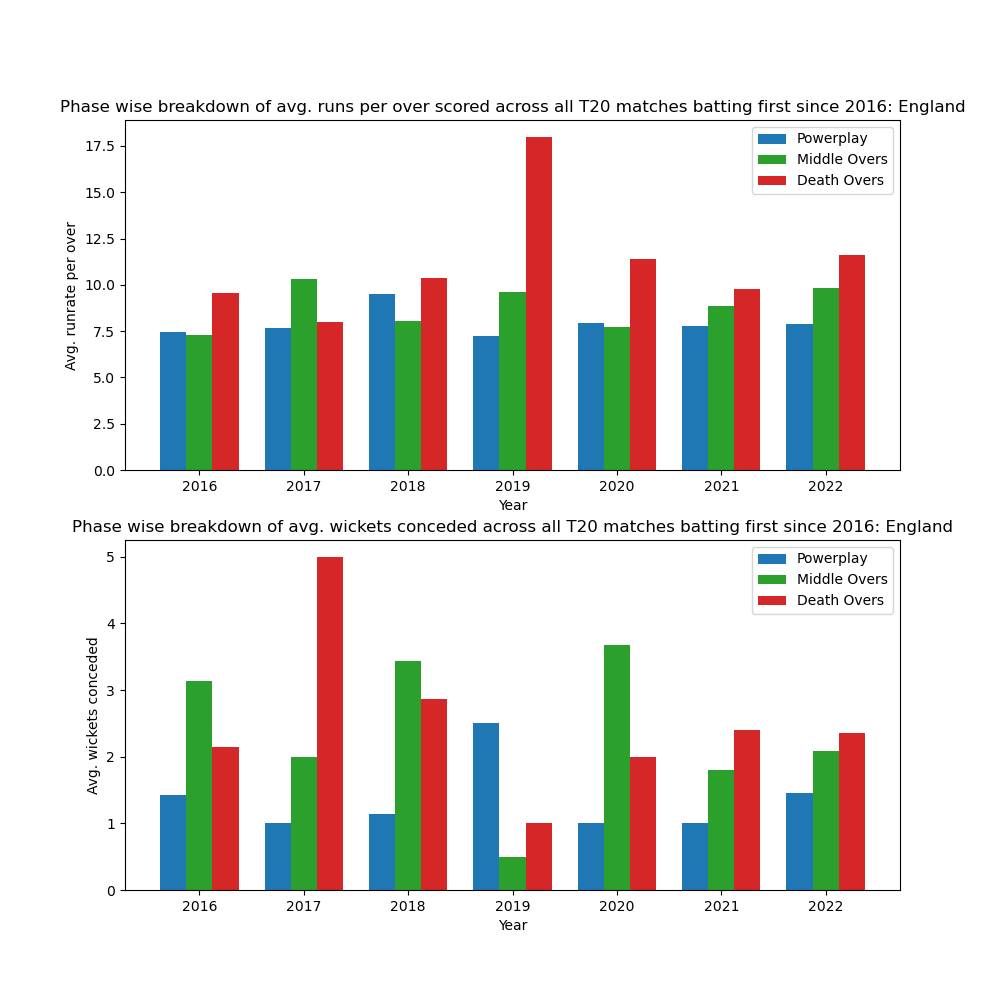
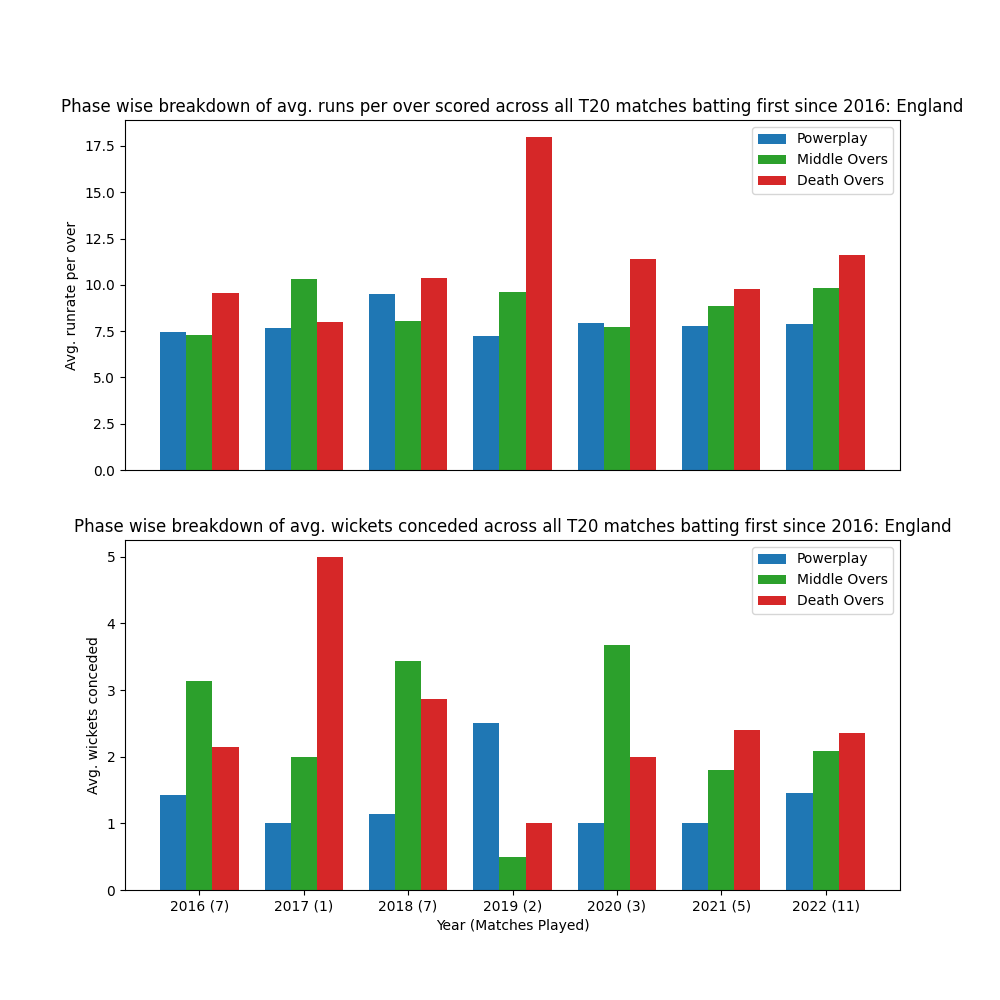
plots updated

diff --git a/DataVisualization/plots_1_2_3.py b/DataVisualization/plots_1_2_3.py
@@ -345,6 +345,9 @@ def make_plots_3(db, team_1, team_2 = "All"):
         country_data = country_data.loc[(country_data['team_B'] == team_2)]
 
     years = np.sort(list(country_data.year.unique()))
+    num_matches = []
+    num_matches_bat = []
+    num_matches_ball = []
 
     for year_ref in years:
 
@@ -511,6 +514,9 @@ def make_plots_3(db, team_1, team_2 = "All"):
             avg_wickets_D_ball = 0
 
         phase_score_record.append((year_ref, avg_runs_P_overall, avg_wickets_P_overall, avg_runs_M_overall, avg_wickets_M_overall, avg_runs_D_overall, avg_wickets_D_overall, avg_runs_P_bat, avg_wickets_P_bat, avg_runs_M_bat, avg_wickets_M_bat, avg_runs_D_bat, avg_wickets_D_bat, avg_runs_P_ball, avg_wickets_P_ball, avg_runs_M_ball, avg_wickets_M_ball, avg_runs_D_ball, avg_wickets_D_ball))
+        num_matches.append(f"{year_ref} ({total_matches_overall})")
+        num_matches_bat.append(f"{year_ref} ({total_matches_bat})")
+        num_matches_ball.append(f"{year_ref} ({total_matches_ball})")
     phase_score_df = pd.DataFrame.from_records(phase_score_record, columns=["year", "avg_score_P_overall", "avg_wickets_P_overall", "avg_score_M_overall", "avg_wickets_M_overall", "avg_score_D_overall", "avg_wickets_D_overall", "avg_score_P_bat", "avg_wickets_P_bat", "avg_score_M_bat", "avg_wickets_M_bat", "avg_score_D_bat", "avg_wickets_D_bat", "avg_score_P_ball", "avg_wickets_P_ball", "avg_score_M_ball", "avg_wickets_M_ball", "avg_score_D_ball", "avg_wickets_D_ball"])
     phase_score_df = phase_score_df.set_index("year")
 
@@ -527,10 +533,9 @@ def make_plots_3(db, team_1, team_2 = "All"):
         ax[0].set_title('Phase wise breakdown of avg. runs per over scored across all T20 matches since 2016: '+str(team_1), loc='center')
     else:
         ax[0].set_title('Phase wise breakdown of avg. runs per over scored against '+str(team_2)+' in all T20I matches since 2016: '+str(team_1), loc='center')
-    ax[0].set_xlabel('Year')
     ax[0].set_ylabel('Avg. runrate per over')
-    ax[0].set_xticks(r+width) 
-    ax[0].set_xticklabels(years)
+    ax[0].set_xticks([]) 
+    ax[0].set_xticklabels([])
     ax[0].legend(loc = 'best')
 
     ax[1].bar(r, phase_score_df.iloc[:,1], width=width, label = 'Powerplay', color = 'tab:blue')
@@ -540,10 +545,10 @@ def make_plots_3(db, team_1, team_2 = "All"):
         ax[1].set_title('Phase wise breakdown of avg. wickets conceded across all T20 matches since 2016: '+str(team_1), loc='center')
     else:
         ax[1].set_title('Phase wise breakdown of avg. wickets conceded against '+str(team_2)+' in all T20I matches since 2016: '+str(team_1), loc='center')
-    ax[1].set_xlabel('Year')
+    ax[1].set_xlabel('Year (Matches Played)')
     ax[1].set_ylabel('Avg. wickets conceded')
     ax[1].set_xticks(r+width)
-    ax[1].set_xticklabels(years)
+    ax[1].set_xticklabels(num_matches)
     ax[1].legend(loc = 'best')
 
     plt.savefig("Phases_runs_wickets_overall_"+str(team_1)+"_"+str(team_2)+".png")
@@ -558,10 +563,9 @@ def make_plots_3(db, team_1, team_2 = "All"):
         ax[0].set_title('Phase wise breakdown of avg. runs per over scored across all T20 matches batting first since 2016: '+str(team_1), loc='center')
     else:
         ax[0].set_title('Phase wise breakdown of avg. runs per over scored against '+str(team_2)+' in all T20I matches batting first since 2016: '+str(team_1), loc='center')
-    ax[0].set_xlabel('Year')
     ax[0].set_ylabel('Avg. runrate per over')
-    ax[0].set_xticks(r+width) 
-    ax[0].set_xticklabels(years)
+    ax[0].set_xticks([]) 
+    ax[0].set_xticklabels([])
     ax[0].legend(loc = 'best')
 
     ax[1].bar(r, phase_score_df.iloc[:,7], width=width, label = 'Powerplay', color = 'tab:blue')
@@ -571,10 +575,10 @@ def make_plots_3(db, team_1, team_2 = "All"):
         ax[1].set_title('Phase wise breakdown of avg. wickets conceded across all T20 matches batting first since 2016: '+str(team_1), loc='center')
     else:
         ax[1].set_title('Phase wise breakdown of avg. wickets conceded against '+str(team_2)+' in all T20I matches batting first since 2016: '+str(team_1), loc='center')
-    ax[1].set_xlabel('Year')
+    ax[1].set_xlabel('Year (Matches Played)')
     ax[1].set_ylabel('Avg. wickets conceded')
     ax[1].set_xticks(r+width)
-    ax[1].set_xticklabels(years)
+    ax[1].set_xticklabels(num_matches_bat)
     ax[1].legend(loc = 'best')
 
     plt.savefig("Phases_runs_wickets_bat_first_"+str(team_1)+"_"+str(team_2)+".png")
@@ -589,10 +593,9 @@ def make_plots_3(db, team_1, team_2 = "All"):
         ax[0].set_title('Phase wise breakdown of avg. runs per over scored across all T20 matches batting second since 2016: '+str(team_1), loc='center')
     else:
         ax[0].set_title('Phase wise breakdown of avg. runs per over scored against '+str(team_2)+' in all T20I matches batting second since 2016: '+str(team_1), loc='center')
-    ax[0].set_xlabel('Year')
     ax[0].set_ylabel('Avg. runrate per over')
-    ax[0].set_xticks(r+width) 
-    ax[0].set_xticklabels(years)
+    ax[0].set_xticks([]) 
+    ax[0].set_xticklabels([])
     ax[0].legend(loc = 'best')
 
     ax[1].bar(r, phase_score_df.iloc[:,13], width=width, label = 'Powerplay', color = 'tab:blue')
@@ -602,10 +605,10 @@ def make_plots_3(db, team_1, team_2 = "All"):
         ax[1].set_title('Phase wise breakdown of avg. wickets conceded across all T20 matches batting second since 2016: '+str(team_1), loc='center')
     else:
         ax[1].set_title('Phase wise breakdown of avg. wickets conceded against '+str(team_2)+' in all T20I matches batting second since 2016: '+str(team_1), loc='center')
-    ax[1].set_xlabel('Year')
+    ax[1].set_xlabel('Year (Matches Played)')
     ax[1].set_ylabel('Avg. wickets conceded')
     ax[1].set_xticks(r+width)
-    ax[1].set_xticklabels(years)
+    ax[1].set_xticklabels(num_matches_ball)
     ax[1].legend(loc = 'best')
 
     plt.savefig("Phases_runs_wickets_bat_second_"+str(team_1)+"_"+str(team_2)+".png")
